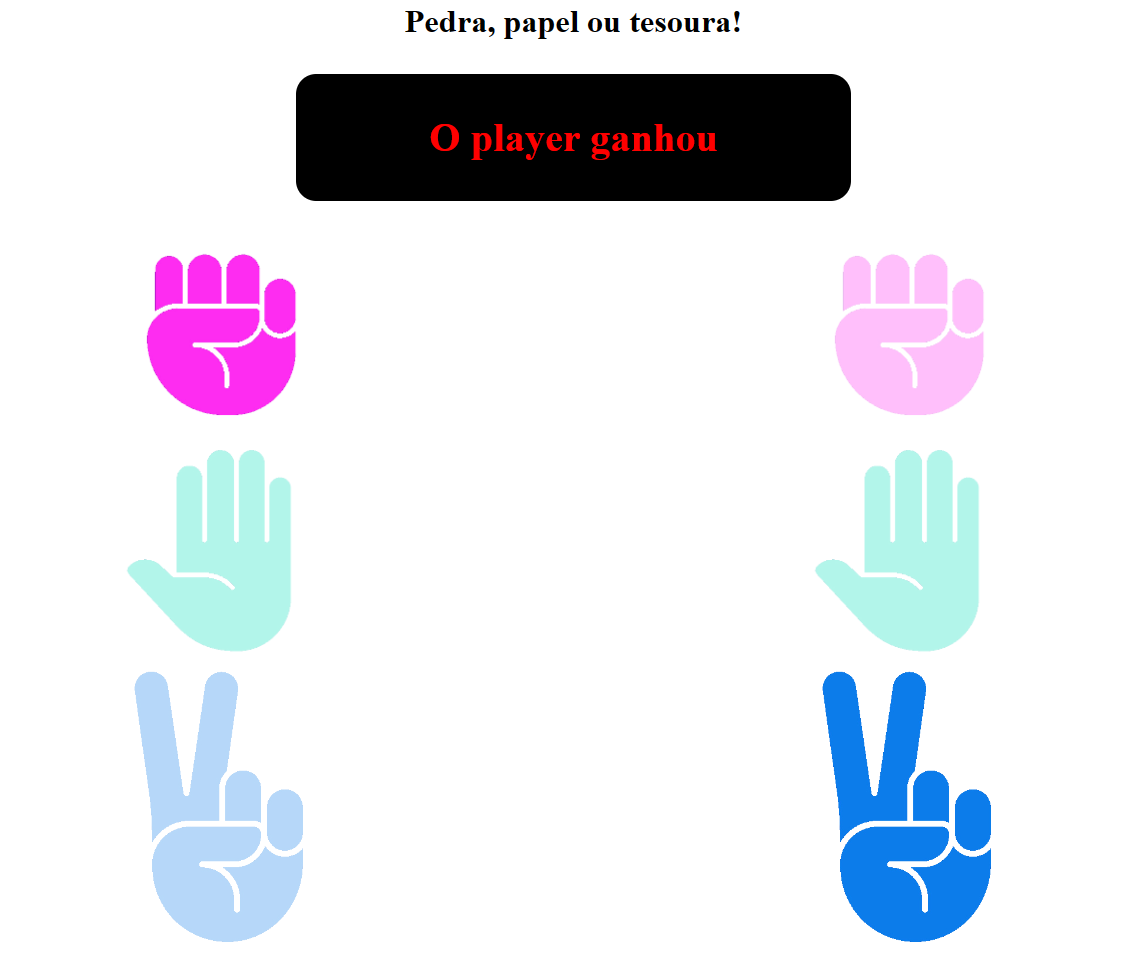
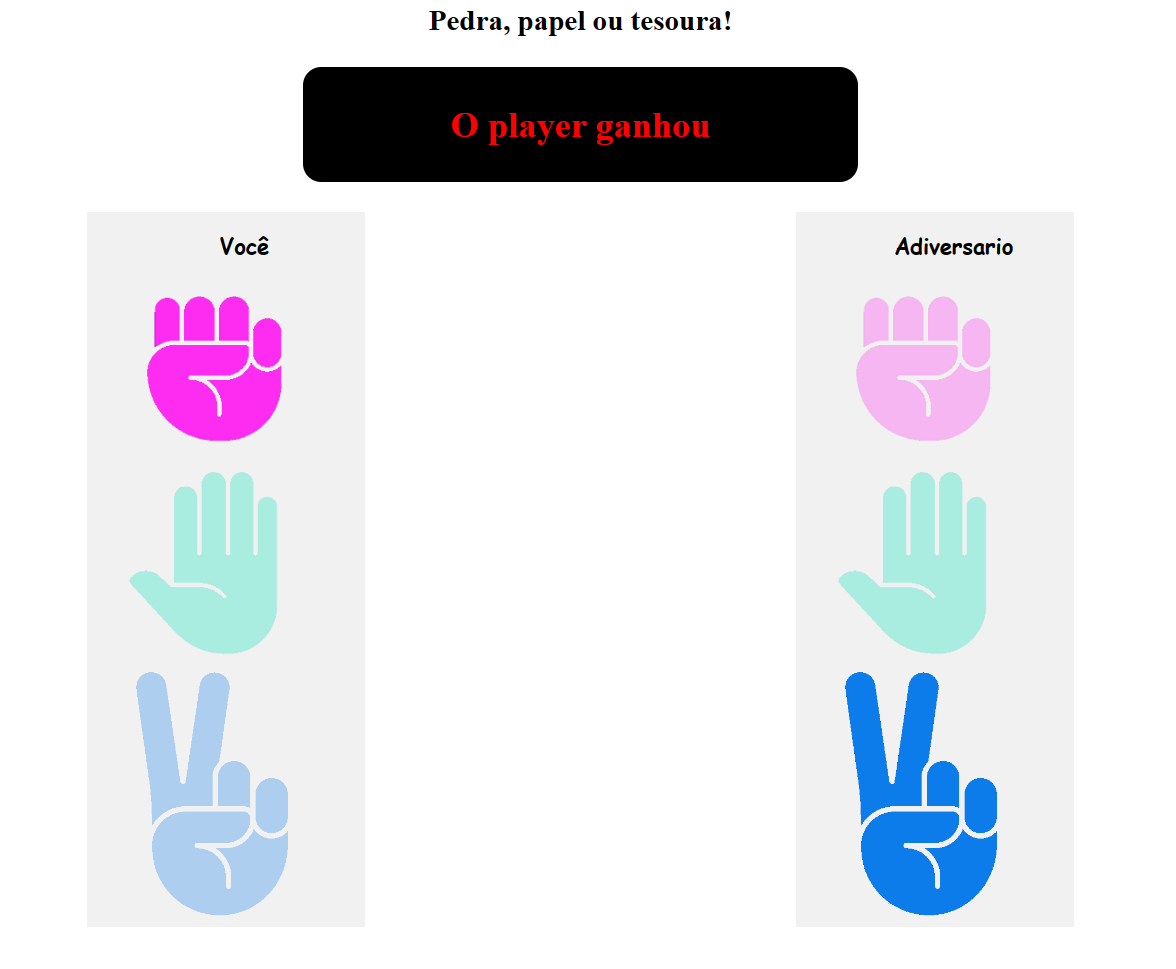
first commi31

Changed region(s): [[0.7149, 0.25, 0.9014, 1.0], [0.0933, 0.25, 0.2798, 1.0], [0.2487, 0.0, 0.7771, 0.2188]]

diff --git a/projetos/projeto4/index.html b/projetos/projeto4/index.html
@@ -1,157 +1,180 @@
 <html>
-    <body>
-        <style>
-            .player-options img,
-            .enemy-options img
-            {
-                max-width: 200px;
-                opacity: 0.3;
-                cursor: pointer;
-            }
 
-            .player-options,.enemy-options{
-                width:50%;
-            }
+<body>
+    <style>
+        .player-options img,
+        .enemy-options img {
+            max-width: 200px;
+            opacity: 0.3;
+            cursor: pointer;
+        }
 
-            .align{
-                display: flex;
-                margin-left: 25.5%;
-            }
-        </style>
-        <h1 style="text-align: center;">Pedra, papel ou tesoura!</h1>
-        <h2 style="text-align: center; background-color: black; margin-left: 35%; margin-right: 35%; color: red; border-radius: 20px; padding: 40px; font-size: 40px;" class="vencedor"></h2>
+        .player-options,
+        .enemy-options {
+            padding-left: 2%;
 
-        
-        <div class="align">
-            <div class="player-options">
-                <div><img opt="pedra" src="/projetos/projeto4/rock.png" /></div>
-                <div><img opt="papel" src="/projetos/projeto4/paper.png" /></div>
-                <div><img opt="tesoura" src="/projetos/projeto4/scisor.png" /></div>
-            </div>
-            <div class="enemy-options">
-                <div><img opt="pedra" src="rock.png" /></div>
-                <div><img opt="papel" src="paper.png" /></div>
-                <div><img opt="tesoura" src="scisor.png" /></div>
-            </div>
+        }
+
+        .align {
+            display: flex;
+            justify-content: space-evenly;
+        }
+        .align h2 {
+            text-align: center;
+            font-family:cursive
+        }
+
+        .player-options {
+            background-color: rgb(242, 241, 241);
+            width: 13%;
+
+        }
+
+        .enemy-options {
+            background-color: rgb(242, 241, 241);
+            width: 13%;
+
+        }
+
+    </style>
+    <h1 style="text-align: center;">Pedra, papel ou tesoura!</h1>
+    <h2 style="text-align: center; background-color: black; margin-left: 35%; margin-right: 35%; color: red; border-radius: 20px; padding: 40px; font-size: 40px;"
+        class="vencedor"></h2>
+
+
+    <div class="align">
+        <div class="player-options">
+            <h2>Você</h2>
+            <div><img opt="pedra" src="/projetos/projeto4/rock.png" /></div>
+            <div><img opt="papel" src="/projetos/projeto4/paper.png" /></div>
+            <div><img opt="tesoura" src="/projetos/projeto4/scisor.png" /></div>
+        </div>
+        <div class="enemy-options">
+            <h2>Adiversario</h2>
+            <div><img opt="pedra" src="rock.png" /></div>
+            <div><img opt="papel" src="paper.png" /></div>
+            <div><img opt="tesoura" src="scisor.png" /></div>
+        </div>
 
 
     </div>
-   
-        <script>
-            var elementos = document.querySelectorAll('.player-options div > img');
-            var playerOpt = "";
-            var inimigoOpt = "";
-            
-            function validarVitoria(){
 
-                let vencedor = document.querySelector('.vencedor');
-                let imagemResultado = document.createElement('img');
-                if(playerOpt == "papel"){
+    <script>
+        var elementos = document.querySelectorAll('.player-options div > img');
+        var playerOpt = "";
+        var inimigoOpt = "";
 
-                    if(inimigoOpt == "papel"){
-                      
-                        vencedor.innerHTML = "O jogo foi empatado";
-                        
+        function validarVitoria() {
 
-                    }else if(inimigoOpt == "tesoura"){
-                       
-                        vencedor.innerHTML = "O inimigo ganhou";
-                        
-                    }else if(inimigoOpt == "pedra"){
-                      
-                        vencedor.innerHTML = "O player ganhou";
-                    }
+            let vencedor = document.querySelector('.vencedor');
+            let imagemResultado = document.createElement('img');
+            if (playerOpt == "papel") {
 
+                if (inimigoOpt == "papel") {
 
-                }
-
-
-                if(playerOpt == "tesoura"){
-
-                    if(inimigoOpt == "papel"){
-                        
-                        vencedor.innerHTML = "O player ganhou";
-                    }else if(inimigoOpt == "tesoura"){
-                      
-                        vencedor.innerHTML = "O jogo foi empatado";
-                    }else if(inimigoOpt == "pedra"){
-                    
-                        vencedor.innerHTML = "O inimigo ganhou";
-                    }
-
-
-                }
-
-                if(playerOpt == "pedra"){
-
-                if(inimigoOpt == "papel"){
-                 
-                    vencedor.innerHTML = "O inimigo ganhou";
-                }else if(inimigoOpt == "tesoura"){
-               
-                    vencedor.innerHTML = "O player ganhou";
-                }else if(inimigoOpt == "pedra"){
-                
                     vencedor.innerHTML = "O jogo foi empatado";
-                    
+
+
+                } else if (inimigoOpt == "tesoura") {
+
+                    vencedor.innerHTML = "O inimigo ganhou";
+
+                } else if (inimigoOpt == "pedra") {
+
+                    vencedor.innerHTML = "O player ganhou";
                 }
-
-
-                }
-
 
 
             }
 
-            function resetInimigo(){
-                const enemyOptions = document.querySelectorAll('.enemy-options div');
-                for(var i = 0; i < enemyOptions.length; i++){
-                   
+
+            if (playerOpt == "tesoura") {
+
+                if (inimigoOpt == "papel") {
+
+                    vencedor.innerHTML = "O player ganhou";
+                } else if (inimigoOpt == "tesoura") {
+
+                    vencedor.innerHTML = "O jogo foi empatado";
+                } else if (inimigoOpt == "pedra") {
+
+                    vencedor.innerHTML = "O inimigo ganhou";
+                }
+
+
+            }
+
+            if (playerOpt == "pedra") {
+
+                if (inimigoOpt == "papel") {
+
+                    vencedor.innerHTML = "O inimigo ganhou";
+                } else if (inimigoOpt == "tesoura") {
+
+                    vencedor.innerHTML = "O player ganhou";
+                } else if (inimigoOpt == "pedra") {
+
+                    vencedor.innerHTML = "O jogo foi empatado";
+
+                }
+
+
+            }
+
+
+
+        }
+
+        function resetInimigo() {
+            const enemyOptions = document.querySelectorAll('.enemy-options div');
+            for (var i = 0; i < enemyOptions.length; i++) {
+
                 enemyOptions[i].childNodes[0].style.opacity = 0.3;
-                    
-                }
+
             }
+        }
 
-            function inimigoJogar(){
-                let rand = Math.floor(Math.random()*3);
+        function inimigoJogar() {
+            let rand = Math.floor(Math.random() * 3);
 
-                const enemyOptions = document.querySelectorAll('.enemy-options div');
-                resetInimigo();
-                for(var i = 0; i < enemyOptions.length; i++){
-                    if(i == rand){
-                        enemyOptions[i].childNodes[0].style.opacity = 1;
-                        inimigoOpt = enemyOptions[i].childNodes[0].getAttribute('opt');
-                    }
-
+            const enemyOptions = document.querySelectorAll('.enemy-options div');
+            resetInimigo();
+            for (var i = 0; i < enemyOptions.length; i++) {
+                if (i == rand) {
+                    enemyOptions[i].childNodes[0].style.opacity = 1;
+                    inimigoOpt = enemyOptions[i].childNodes[0].getAttribute('opt');
                 }
 
-
-                validarVitoria();
-
-
-            
-
             }
 
-            function resetOpacityPlayer(){
-                for(var i = 0; i < elementos.length; i++){
-                    elementos[i].style.opacity = 0.3;
-                }
+
+            validarVitoria();
+
+
+
+
+        }
+
+        function resetOpacityPlayer() {
+            for (var i = 0; i < elementos.length; i++) {
+                elementos[i].style.opacity = 0.3;
             }
+        }
 
-            for(var i = 0; i < elementos.length; i++){
-                elementos[i].addEventListener('click',function(t){
-                    resetOpacityPlayer();
-                    t.target.style.opacity = 1;
-                    playerOpt = t.target.getAttribute('opt');
+        for (var i = 0; i < elementos.length; i++) {
+            elementos[i].addEventListener('click', function (t) {
+                resetOpacityPlayer();
+                t.target.style.opacity = 1;
+                playerOpt = t.target.getAttribute('opt');
 
-                    inimigoJogar();
+                inimigoJogar();
 
-                   // alert(playerOpt);
-                });
-            }
+                // alert(playerOpt);
+            });
+        }
 
-        </script>
+    </script>
 
-    </body>
+</body>
+
 </html>
